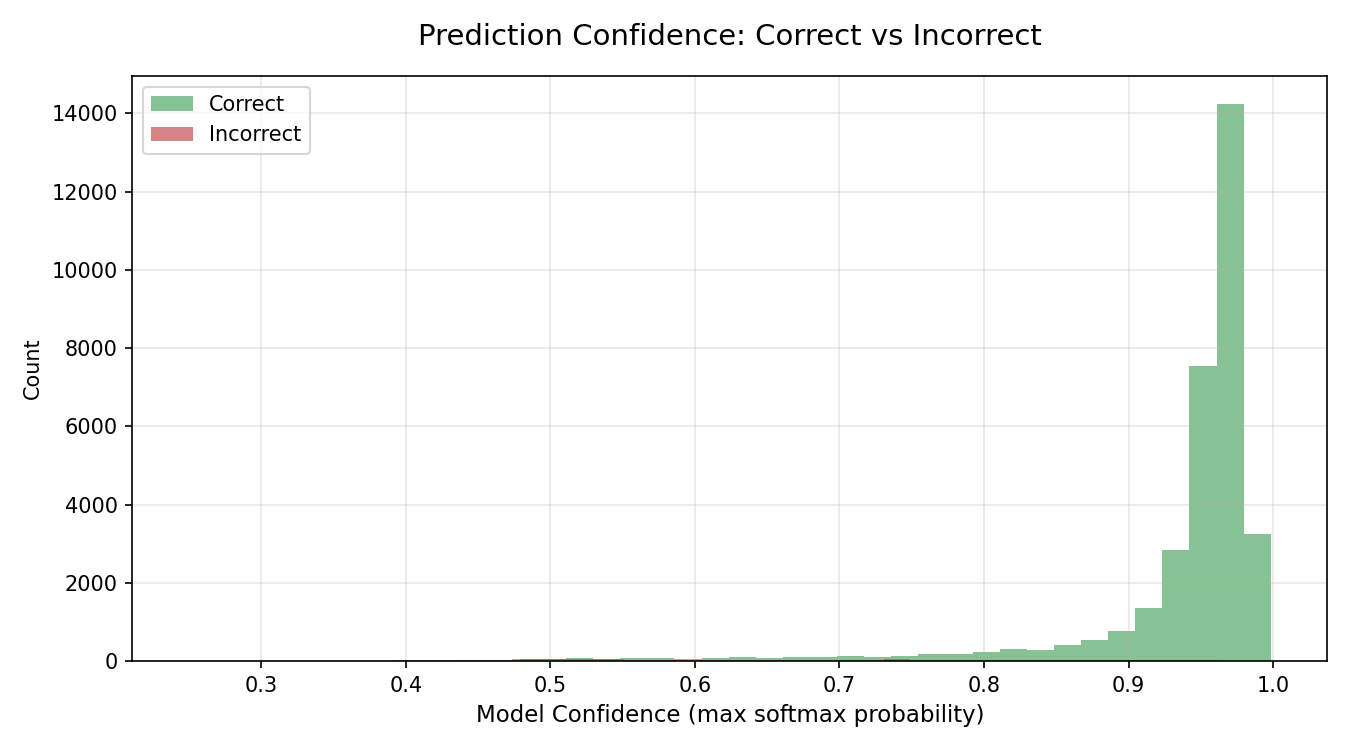
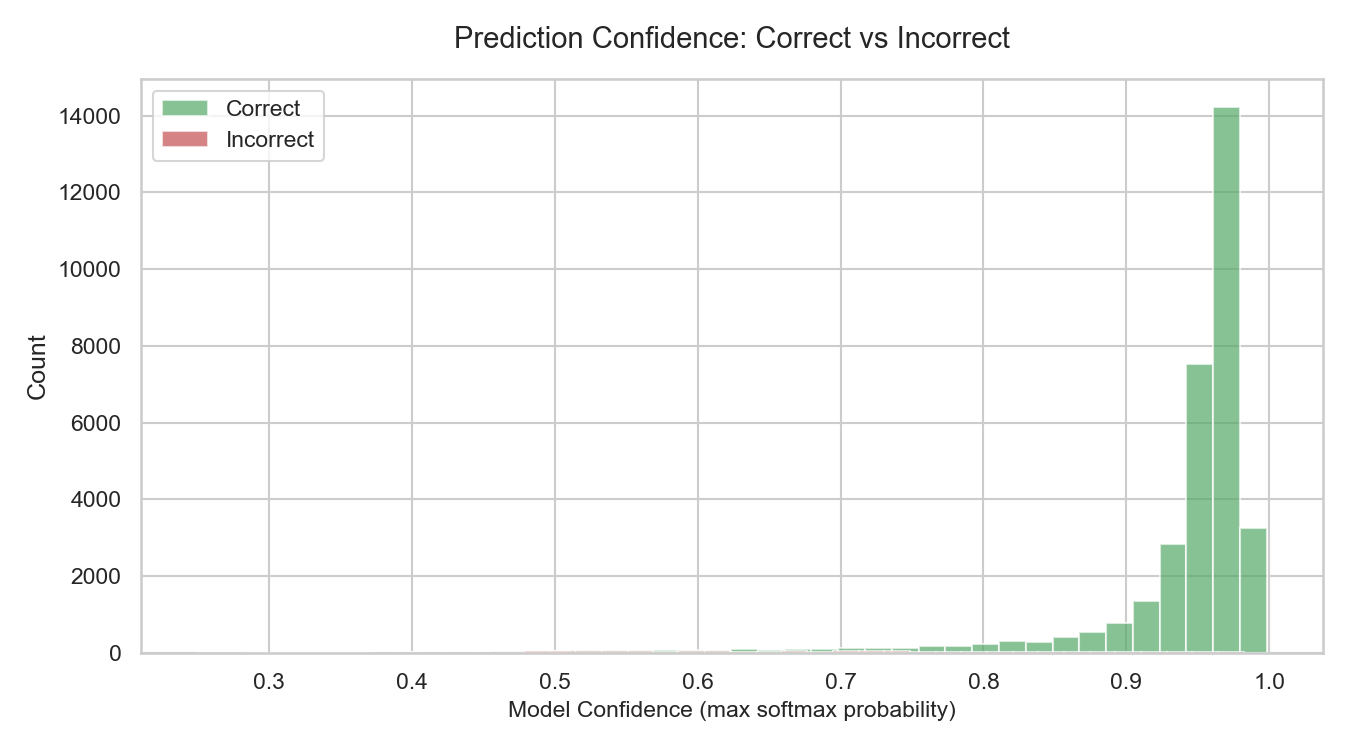
doc (README, eval): Added evaluation visualizations and model comparison tooling.
Added per-class F1 comparison chart (baseline vs final), integrate all eval
output images into README with captions, and add plot_comparison.py and
supporting classification reports.

diff --git a/Yield CNN/eval/plot_comparison.py b/Yield CNN/eval/plot_comparison.py
@@ -1,0 +1,122 @@
+"""
+Name: Reynaldo Gomez
+Last Edited: 3/29/2026
+
+Description:
+    Reads the classification reports produced by baseline_eval.py and builds
+    a grouped bar chart comparing per-class F1 score for the baseline and
+    final model across all 9 classes.
+
+    Inputs:
+        eval_outputs/baseline_report.txt  — from baseline_eval.py
+        eval_outputs/final_report.txt     — from baseline_eval.py
+
+    Saves:
+        eval_outputs/comparison_chart.png
+
+Usage:
+    cd eval/
+    python baseline_eval.py        # produces the two .txt files
+    python plot_comparison.py      # produces comparison_chart.png
+"""
+
+import re
+from pathlib import Path
+
+import matplotlib.pyplot as plt
+import numpy as np
+import seaborn as sns
+
+OUT_DIR      = Path(__file__).parent / "eval_outputs"
+BASELINE_TXT = OUT_DIR / "baseline_report.txt"
+FINAL_TXT    = OUT_DIR / "final_report.txt"
+
+
+# ── Parser ────────────────────────────────────────────────────────────────────
+
+def parse_f1(report_path: Path) -> dict[str, float]:
+    """
+    Extracts per-class F1 scores from a sklearn classification_report text file.
+    Skips summary rows (accuracy, macro avg, weighted avg).
+
+    Returns {class_name: f1_score}.
+    """
+    skip = {"accuracy", "macro avg", "weighted avg"}
+    f1   = {}
+    for line in report_path.read_text().splitlines():
+        # sklearn rows: "  ClassName    prec  recall  f1  support"
+        parts = line.split()
+        if len(parts) == 5 and parts[0] not in skip:
+            try:
+                f1[parts[0]] = float(parts[3])
+            except ValueError:
+                pass
+        # two-word class names e.g. "Near-full" handled — they are hyphenated
+        # single tokens so len==5 still holds
+    return f1
+
+
+# ── Load ──────────────────────────────────────────────────────────────────────
+
+baseline_f1 = parse_f1(BASELINE_TXT)
+final_f1    = parse_f1(FINAL_TXT)
+
+# Align on shared classes, sorted alphabetically to match report order
+classes = sorted(set(baseline_f1) & set(final_f1))
+
+b_vals = [baseline_f1[c] for c in classes]
+f_vals = [final_f1[c]    for c in classes]
+
+# ── Plot ──────────────────────────────────────────────────────────────────────
+
+sns.set_theme(style="whitegrid", palette="deep")
+palette        = sns.color_palette("deep")
+BASELINE_COLOR = palette[0]
+FINAL_COLOR    = palette[1]
+
+x     = np.arange(len(classes))
+width = 0.35
+
+fig, ax = plt.subplots(figsize=(13, 5.5))
+
+bars_b = ax.bar(x - width / 2, b_vals, width, color=BASELINE_COLOR,
+                label="Baseline (plain CNN)")
+bars_f = ax.bar(x + width / 2, f_vals, width, color=FINAL_COLOR,
+                label="Final (SE-ResNet + Focal + LS)")
+
+# Value labels
+for bar in bars_b:
+    ax.text(bar.get_x() + bar.get_width() / 2, bar.get_height() + 0.007,
+            f"{bar.get_height():.2f}", ha="center", va="bottom",
+            fontsize=7.5, color=BASELINE_COLOR, fontweight="bold")
+
+for bar in bars_f:
+    ax.text(bar.get_x() + bar.get_width() / 2, bar.get_height() + 0.007,
+            f"{bar.get_height():.2f}", ha="center", va="bottom",
+            fontsize=7.5, color=FINAL_COLOR, fontweight="bold")
+
+# Delta labels above each pair
+for i, (b, f) in enumerate(zip(b_vals, f_vals)):
+    delta = f - b
+    sign  = "+" if delta >= 0 else ""
+    color = "#1a7a1a" if delta > 0.01 else ("#b30000" if delta < -0.01 else "#666666")
+    ax.text(x[i], max(b, f) + 0.055,
+            f"{sign}{delta:.2f}",
+            ha="center", va="bottom", fontsize=7.5, color=color, fontweight="bold")
+
+# Axes
+ax.set_xticks(x)
+ax.set_xticklabels(classes, fontsize=10, rotation=30, ha="right")
+ax.set_ylabel("F1 Score", fontsize=11)
+ax.set_ylim(0, 1.15)
+ax.set_yticks([0.0, 0.2, 0.4, 0.6, 0.8, 1.0])
+
+ax.set_title("Per-Class F1: Baseline vs Final Model", fontsize=13,
+             fontweight="bold", pad=12)
+ax.legend(fontsize=9, framealpha=0.9, loc="lower right")
+
+plt.tight_layout()
+save_path = OUT_DIR / "comparison_chart.png"
+plt.savefig(save_path, dpi=180, bbox_inches="tight")
+print(f"Saved: {save_path}")
+plt.show()

diff --git a/README.md b/README.md
@@ -77,6 +77,54 @@ Scratch precision at 0.74 remains the weakest figure; low-confidence Scratch pre
 
 ---
 
+### Evaluation visualizations
+
+All visualizations below are generated by `yield_evaluate.py` and `plot_comparison.py` against the held-out 34,590-sample validation split (random_state=42) using the `best_se_only_ls.pt` checkpoint.
+
+#### Model comparison
+
+![Per-class F1: Baseline vs Final](Yield%20CNN/eval/eval_outputs/comparison_chart.png)
+
+Grouped bar chart of per-class F1 for the plain CNN baseline (macro F1 0.800) and the final SE-ResNet + FocalLoss + label smoothing model (macro F1 0.870 uncapped, 0.930 with threshold). Delta labels show the gain or loss per class. Donut improves by +0.31; Scratch and Loc show the largest remaining gaps.
+
+#### Confusion matrix
+
+![Confusion matrix](Yield%20CNN/eval/eval_outputs/confusion_matrix.png)
+
+Predicted vs. actual class counts on the full validation set. The diagonal is correct predictions. Off-diagonal entries show where the model confuses classes: Edge-Loc and Loc are the primary sources of cross-class error; the none class (29,486 samples) is nearly diagonal.
+
+#### Per-class precision, recall, and F1
+
+![Per-class metrics](Yield%20CNN/eval/eval_outputs/per_class_metrics.png)
+
+Bar chart of precision, recall, and F1 for each of the 9 classes. Scratch has the lowest precision (0.60) due to over-prediction; Donut recall (0.90) is recovered relative to baseline. Near-full F1 (0.92) is strong despite its 30-sample support.
+
+#### Confidence distribution
+
+![Confidence histogram](Yield%20CNN/eval/eval_outputs/confidence_histogram.png)
+
+Softmax confidence distribution separated by correct and incorrect predictions. Correct predictions concentrate near 1.0; incorrect predictions spread across the full range with a secondary peak at low confidence. The gap between the two distributions is what the 0.70 threshold exploits to reduce forced low-confidence classifications.
+
+#### Confidence threshold analysis
+
+![Threshold analysis](Yield%20CNN/eval/eval_outputs/threshold_analysis.png)
+
+Macro F1 (left axis) and abstention rate (right axis) as a function of confidence threshold swept from 0 to 1. F1 rises as the threshold increases because hard cases are abstained rather than misclassified. At threshold 0.70 the model classifies 95.2% of samples at macro F1 0.930; tightening further gains diminishing F1 return at accelerating abstention cost.
+
+#### Sample predictions
+
+![Sample predictions](Yield%20CNN/eval/eval_outputs/sample_predictions.png)
+
+Grid of wafer map images drawn from the validation set. Each cell shows the predicted label (top) and true label (bottom); correct predictions are labeled in green, errors in red. Edge cases such as ambiguous Scratch and Loc patterns are overrepresented in the error rows.
+
+#### Grad-CAM attention maps
+
+![Grad-CAM](Yield%20CNN/eval/eval_outputs/gradcam.png)
+
+Gradient-weighted Class Activation Maps overlaid on wafer map images, one row per defect class. Warm regions indicate the spatial areas that most influenced the model's class prediction. Center activations concentrate at the die center; Edge-Ring activations trace the wafer perimeter; Scratch activations follow the linear defect streak, confirming the model attends to geometrically meaningful features.
+
+---
+
 ### Key references
 
 Wu et al., 2014. *WM-811K Wafer Map Dataset (LSWMD).*
